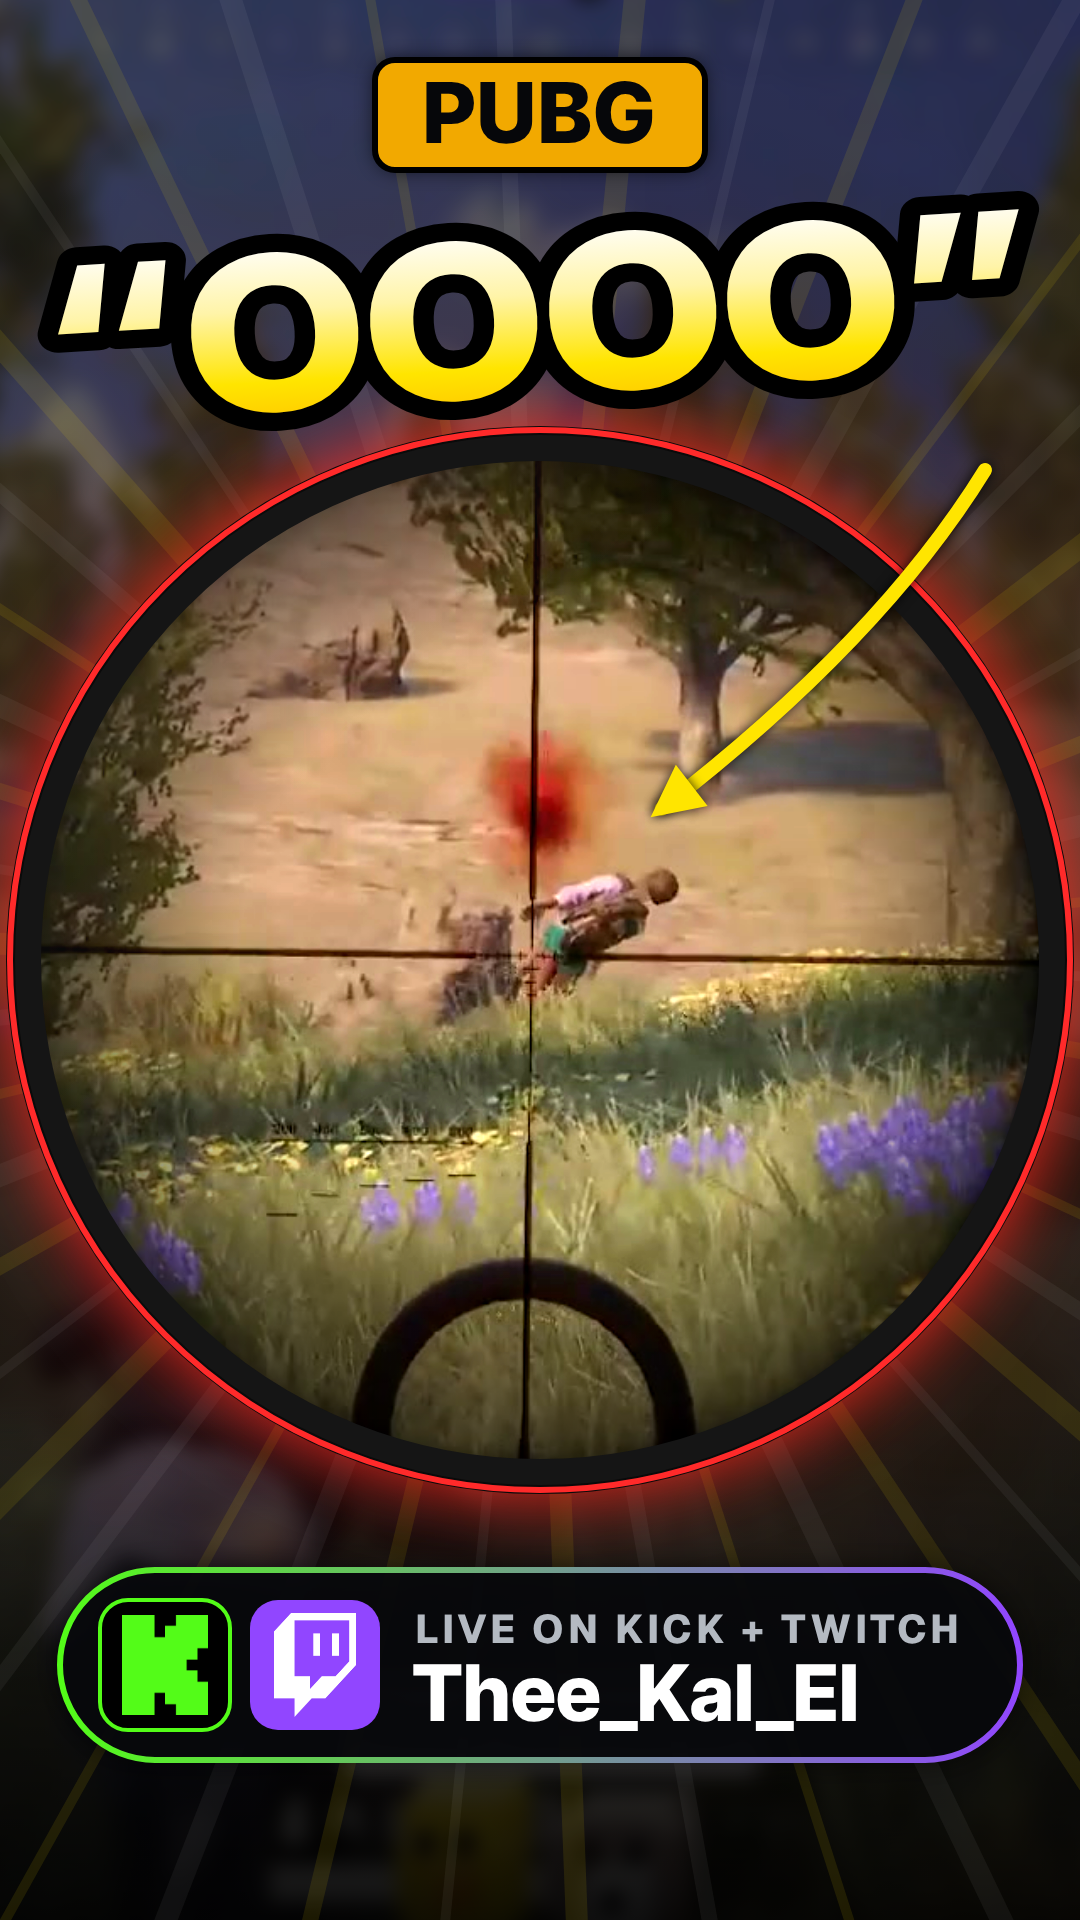
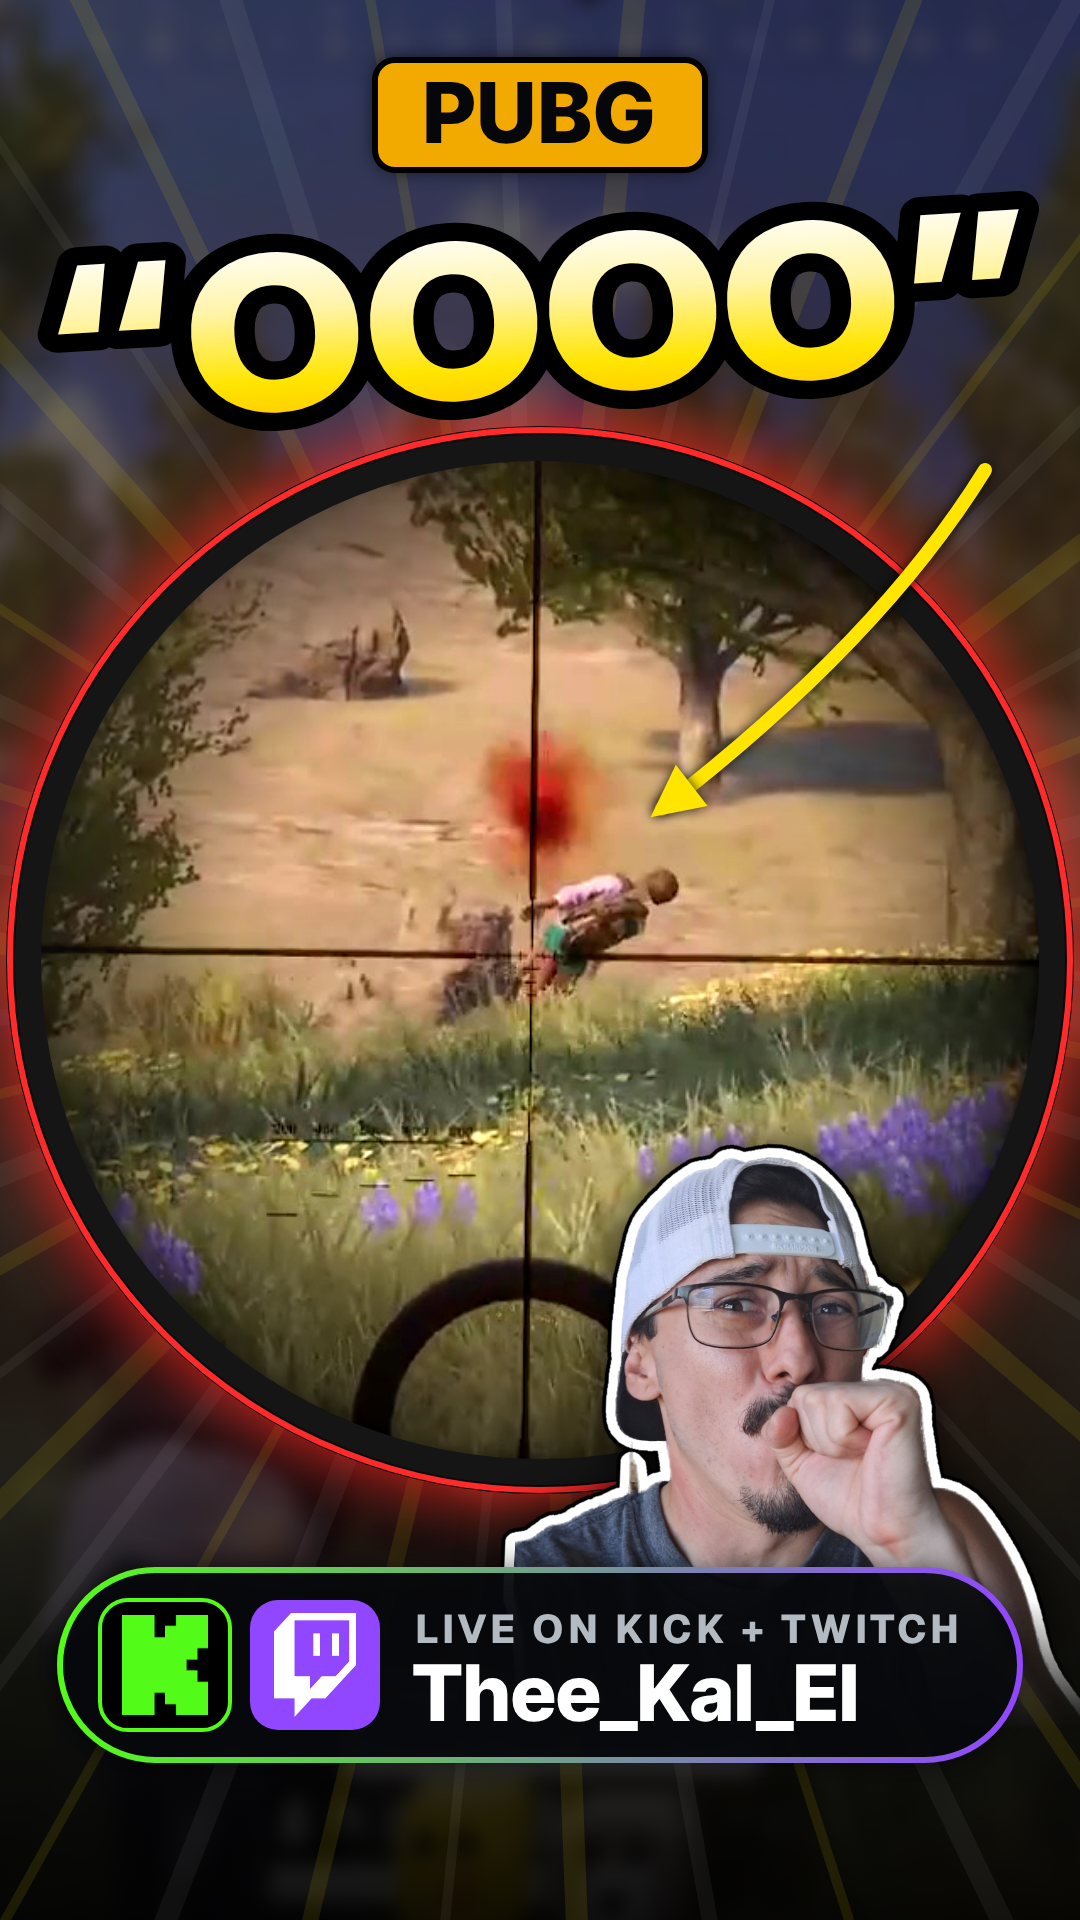
PUBG thumbnail: add cut-out reaction sticker of Kal
Claude-Session: https://claude.ai/code/session_01NSJvdmHsHoazKiuuGVQfMY

Changed region(s): [[0.4583, 0.5625, 0.9778, 0.875], [0.9778, 0.875, 1.0, 0.9062]]

diff --git a/story/pubg_thumb.html b/story/pubg_thumb.html
@@ -12,7 +12,7 @@
   const D = (s) => `900 ${s}px "Inter Tight", sans-serif`, G = (w, s) => `${w} ${s}px Geist, "Inter Tight", sans-serif`;
   await Promise.all([document.fonts.load(D(100)), document.fonts.load(G(800, 40))]);
   const img = (src) => new Promise((r) => { const i = new Image(); i.onload = () => r(i); i.src = src; });
-  const [scope, field, kick, twitch] = await Promise.all([img('../thumb/s_1.00.jpg'), img('../thumb/pubg_6.6.jpg'), img('kick_k.png'), img('twitch_glitch.png')]);
+  const [me, scope, field, kick, twitch] = await Promise.all([img('kal_reaction_sticker.png'), img('../thumb/s_1.00.jpg'), img('../thumb/pubg_6.6.jpg'), img('kick_k.png'), img('twitch_glitch.png')]);
   const rr = (x, y, w, h, r) => { c.beginPath(); c.roundRect(x, y, w, h, r); };
   function word(s, x, y, size, fill, rot = 0, align = 'center', sx = 0.9, ital = true) {
     c.save(); c.translate(x, y); c.rotate(rot); c.scale(sx, 1); c.font = (ital ? 'italic ' : '') + D(size); c.textAlign = align; c.textBaseline = 'middle'; c.letterSpacing = '-3px'; c.lineJoin = 'round';
@@ -48,6 +48,12 @@
   // ---- headline
   word('“OOOO”', 540, 330, 215, ['#FFFFFF', '#FFF4A8', YEL, '#FFB800'], -0.06, 'center', 1.12, false);
 
+  // ---- reaction: Kal cut out with a sticker border, bottom-right, looking across at the kill (bottom edge tucks under the pill)
+  { const mw = 640, mh = mw * me.height / me.width, off = document.createElement('canvas'); off.width = W; off.height = H; const o = off.getContext('2d');
+    o.save(); o.shadowColor = 'rgba(0,0,0,0.75)'; o.shadowBlur = 40; o.translate(W - mw + 70, 1125); o.rotate(0.04); o.drawImage(me, 0, 0, mw, mh); o.restore();
+    // fade the flat bottom edge out so it melts into the dark under the pill
+    const fg = o.createLinearGradient(0, 1600, 0, 1730); fg.addColorStop(0, 'rgba(0,0,0,0)'); fg.addColorStop(1, 'rgba(0,0,0,1)'); o.globalCompositeOperation = 'destination-out'; o.fillStyle = fg; o.fillRect(0, 1600, W, H - 1600);
+    c.drawImage(off, 0, 0); }
   // ---- KICK + TWITCH pill, centred under the scope
   const sy = 1570, px = 60, pw = 960, ph = 190; rr(px, sy, pw, ph, ph / 2); c.fillStyle = 'rgba(8,9,12,0.9)'; c.shadowColor = 'rgba(0,0,0,0.7)'; c.shadowBlur = 30; c.fill(); c.shadowBlur = 0;
   c.lineWidth = 6; g = c.createLinearGradient(px, 0, px + pw, 0); g.addColorStop(0, KICK); g.addColorStop(1, TWI); c.strokeStyle = g; c.stroke();
